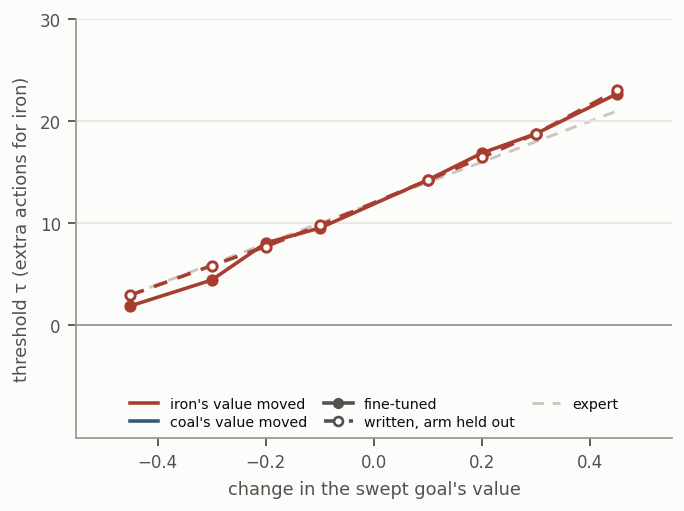
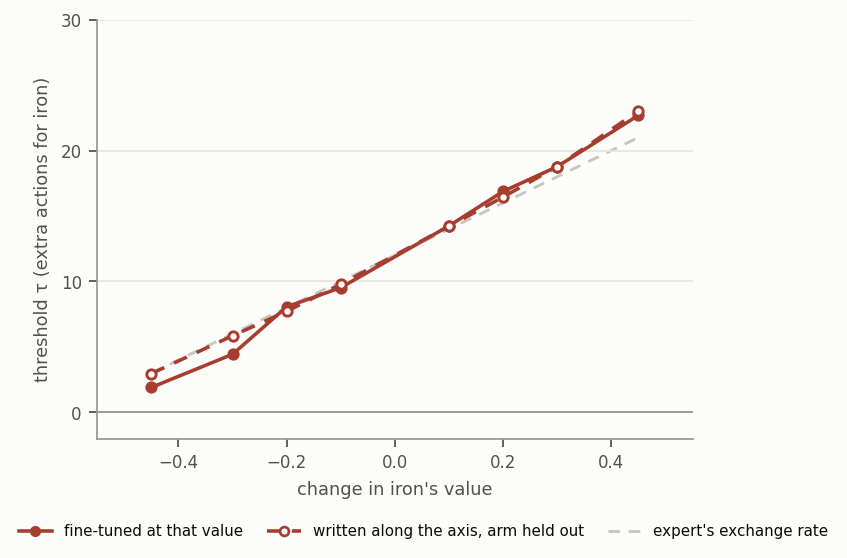
Value-axis figure: iron sweep only, legend beneath the axes

Changed region(s): [[0.0, 0.0, 0.9825, 0.91], [0.0307, 0.9393, 0.9825, 0.9687]]

diff --git a/figures/make_craftax_axis_figure.py b/figures/make_craftax_axis_figure.py
@@ -199,22 +199,22 @@ def main() -> None:
 
 
 def draw_single(panel: dict, out: Path) -> None:
-    """The write-up's figure at the blog's size: one base, both sweeps, nothing but the plot."""
-    ylim = (-11, 30)
+    """The write-up's figure at the blog's size: one base, iron's value swept, the legend beneath."""
+    ylim = (-3, 30)
+    only = {"sweeps": {"o0": panel["sweeps"].get("o0", [])}, "gaps": panel["gaps"]}
     fig, ax = plt.subplots(figsize=(4.8, 3.4))
-    draw_panel(ax, panel, "", ylim, stats=False)
+    draw_panel(ax, only, "", ylim, stats=False)
+    ax.set_ylim(-2, 30)
     ax.set_yticks([0, 10, 20, 30])
-    ax.set_xlabel("change in the swept goal's value", fontsize=8)
+    ax.set_xlabel("change in iron's value", fontsize=8)
     ax.set_ylabel("threshold τ (extra actions for iron)", fontsize=8)
     ax.tick_params(labelsize=7.5)
     handles = [
-        Line2D([], [], color=RICH, lw=1.6, label="iron's value moved"),
-        Line2D([], [], color=POOR, lw=1.6, label="coal's value moved"),
-        Line2D([], [], color=INK2, lw=1.6, marker="o", ms=4, label="fine-tuned"),
-        Line2D([], [], color=INK2, lw=1.6, ls=(0, (4, 3)), marker="o", ms=4, mfc=SURFACE, mew=1.2, label="written, arm held out"),
-        Line2D([], [], color=LINE, lw=1.3, ls=(0, (4, 3)), label="expert"),
+        Line2D([], [], color=RICH, lw=1.6, marker="o", ms=4, label="fine-tuned at that value"),
+        Line2D([], [], color=RICH, lw=1.6, ls=(0, (4, 3)), marker="o", ms=4, mfc=SURFACE, mew=1.2, label="written along the axis, arm held out"),
+        Line2D([], [], color=LINE, lw=1.3, ls=(0, (4, 3)), label="expert's exchange rate"),
     ]
-    ax.legend(handles=handles, loc="lower center", fontsize=6.4, ncol=3, handlelength=2.0, columnspacing=1.2, labelspacing=0.3, borderaxespad=0.2)
+    fig.legend(handles=handles, loc="lower center", ncol=3, fontsize=6.8, bbox_to_anchor=(0.55, -0.1), columnspacing=1.6, handlelength=2.2, frameon=False)
     out.parent.mkdir(parents=True, exist_ok=True)
     for ext in ("png", "pdf"):
         fig.savefig(f"{out}.{ext}", bbox_inches="tight", pad_inches=0.08)
